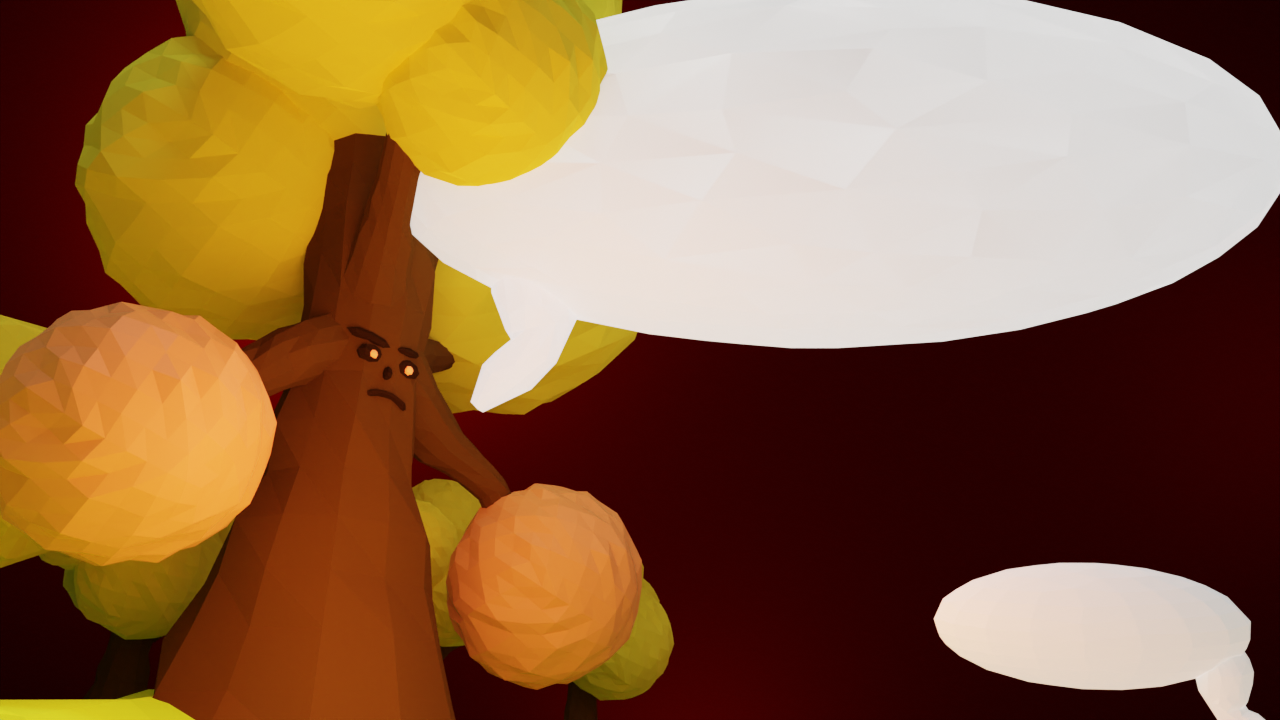
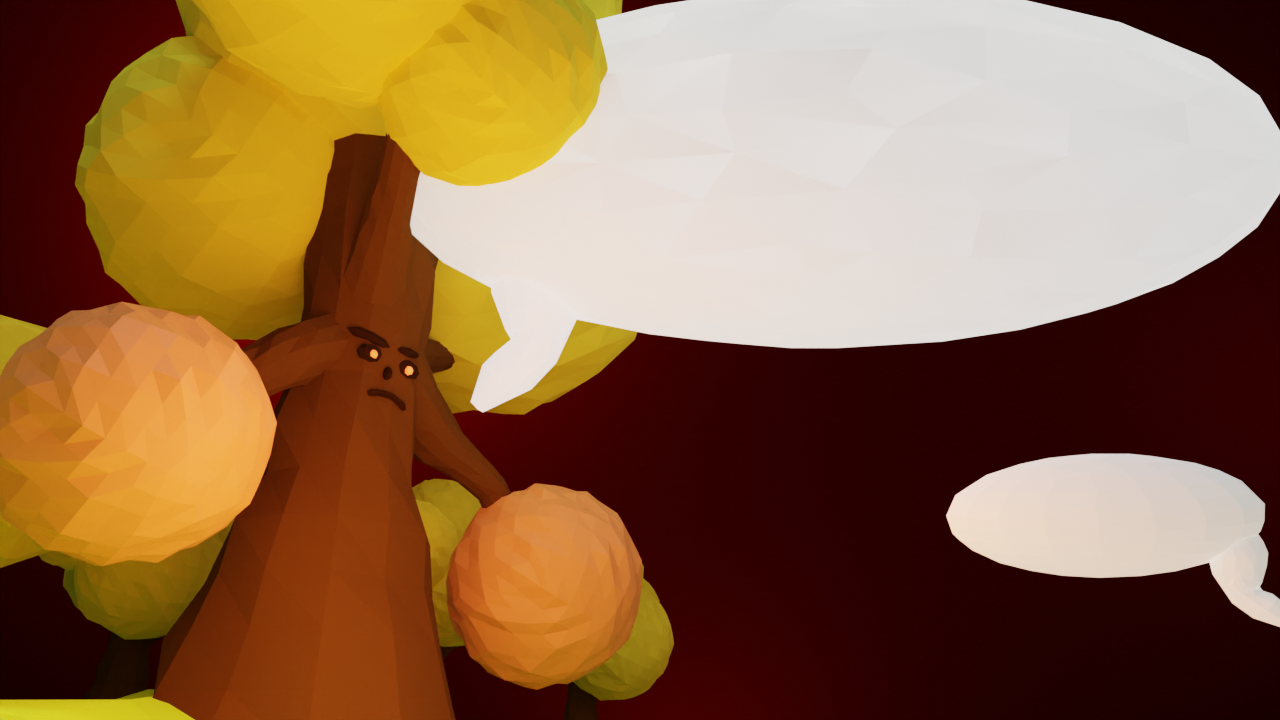
fixed position of user chat text area and added in functionality for user text area with transparent background

Changed region(s): [[0.7188, 0.6111, 1.0, 1.0]]

diff --git a/src/main/java/nz/ac/auckland/se206/controllers/ChatController.java b/src/main/java/nz/ac/auckland/se206/controllers/ChatController.java
@@ -78,7 +78,7 @@ public class ChatController {
     chatTextArea.setEditable(false); // prevents user from editing the chat text area
 
     inputText.setDisable(true);
-
+    inputText.setStyle("-fx-background-color: transparent;");
     // Start thinking
     startThink();
 
@@ -364,11 +364,14 @@ public class ChatController {
    */
   @FXML
   public void onKeyPressed(KeyEvent event) throws ApiProxyException, IOException {
+    inputText.setStyle("-fx-background-color: transparent;");
+
     startListen();
     treeThinking.setVisible(true);
     if (event.getCode().toString().equals("ENTER")) {
       onSendMessage(new ActionEvent());
     }
+    inputText.setStyle("-fx-background-color: transparent;");
   }
 
   /**
@@ -378,11 +381,14 @@ public class ChatController {
    */
   @FXML
   public void onKeyReleased(KeyEvent event) {
+    inputText.setStyle("-fx-background-color: transparent;");
+
     System.out.println("key " + event.getCode() + " released");
     if (inputText.getText().trim().isEmpty()) {
       startTalk();
       listeningLabel.setVisible(false);
     }
+    inputText.setStyle("-fx-background-color: transparent;");
   }
 
   public void activateProgressGlow() {
